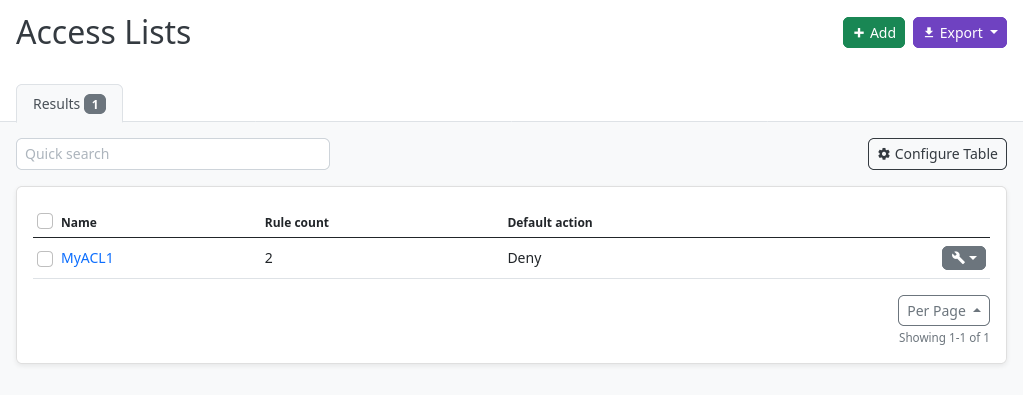
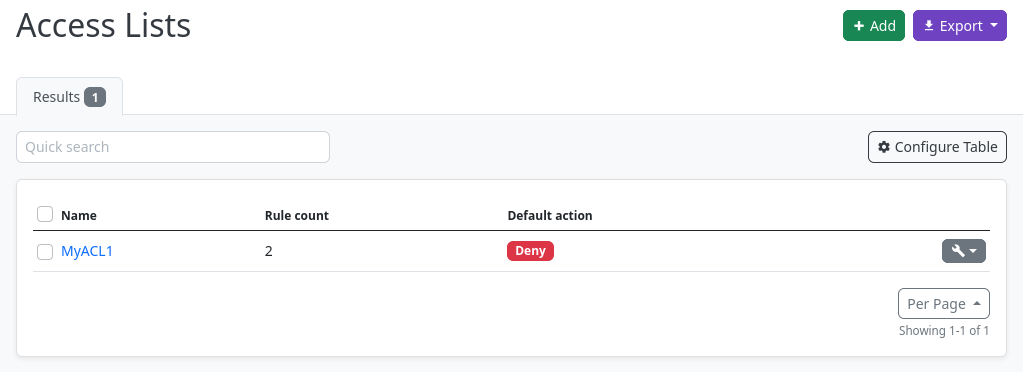
Use ChoiceFieldColumns on tables

diff --git a/tutorial/step03-tables.md b/tutorial/step03-tables.md
@@ -15,12 +15,12 @@ $ cd netbox_access_lists/
 $ edit tables.py
 ```
 
-At the top of this file, import the `django-tables2` library, as well as NetBox's `NetBoxTable` class. The latter will serve as the base class for our tables. We'll also import our plugin's models from `models.py`.
+At the top of this file, import the `django-tables2` library. This will provide the column classes for fields we wish to customize. We'll also import NetBox's `NetBoxTable` class, which will serve as the base class for our tables, and `ChoiceFieldColumn`. Finally we import our plugin's models from `models.py`.
 
 ```python
 import django_tables2 as tables
 
-from netbox.tables import NetBoxTable
+from netbox.tables import NetBoxTable, ChoiceFieldColumn
 from .models import AccessList, AccessListRule
 ```
 
@@ -50,6 +50,12 @@ class AccessListTable(NetBoxTable):
     )
 ```
 
+Also, recall that the `default_action` field on the `AccessList` model is a choice field, with a color assigned to each choice. To display these values, we'll use NetBox's `ChoiceFieldColumn` class.
+
+```python
+    default_action = ChoiceFieldColumn()
+```
+
 It would also be nice to include a count showing the number of rules each access list has assigned to it. We can add a custom column named `rule_count` to show this. (The data for this column will be annotated by the view; more on this in step five.) We'll also need to add this column to our `fields` and (optionally) `default_columns` under the `Meta` subclass. Our finished table should look like this:
 
 ```python
@@ -57,6 +63,7 @@ class AccessListTable(NetBoxTable):
     name = tables.Column(
         linkify=True
     )
+    default_action = ChoiceFieldColumn()
     rule_count = tables.Column()
 
     class Meta(NetBoxTable.Meta):
@@ -67,7 +74,7 @@ class AccessListTable(NetBoxTable):
 
 ### AccessListRuleTable
 
-We'll also create a table for our `AccessListRule` model using the same approach as above. In this case, we don't need to add any custom columns, but we do want to linkify the `access_list` and `index` columns. The former will link to the parent access list, and the latter will link to the individual rule.
+We'll also create a table for our `AccessListRule` model using the same approach as above. Start by linkifying the `access_list` and `index` columns. The former will link to the parent access list, and the latter will link to the individual rule. We also want to declare `protocol` and `action` as `ChoiceFieldColumn` instances.
 
 ```python
 class AccessListRuleTable(NetBoxTable):
@@ -77,6 +84,8 @@ class AccessListRuleTable(NetBoxTable):
     index = tables.Column(
         linkify=True
     )
+    protocol = ChoiceFieldColumn()
+    action = ChoiceFieldColumn()
 
     class Meta(NetBoxTable.Meta):
         model = AccessListRule

diff --git a/tutorial/step02-models.md b/tutorial/step02-models.md
@@ -239,12 +239,37 @@ class ProtocolChoices(ChoiceSet):
 Then, add the `choices` keyword argument to the `protocol` field:
 
 ```python
-# AccessListRule
+    # AccessListRule
     protocol = models.CharField(
         max_length=30,
         choices=ProtocolChoices,
         blank=True
     )
+```
+
+### Add Choice Color Methods
+
+Now that we've defined choices for some of our model fields, we'll need to provide a method for returning the appropriate color for a selected choice. This works similar to Django's `get_FOO_display()` methods, but returns a color (defined on the field's `ChoiceSet`) rather than a label. This method will be called e.g. when displaying the field in a table.
+
+Let's add a `get_default_action_color()` method on `AccessList`:
+
+```python
+class AccessList(NetBoxModel):
+    # ...
+    def get_default_action_color(self):
+        return ActionChoices.colors.get(self.default_action)
+```
+
+We also need to add methods for `protocol` and `action` on `AccessListRule`:
+
+```python
+class AccessListRule(NetBoxModel):
+    # ...
+    def get_protocol_color(self):
+        return ProtocolChoices.colors.get(self.protocol)
+
+    def get_action_color(self):
+        return ActionChoices.colors.get(self.action)
 ```
 
 ## Create Schema Migrations
